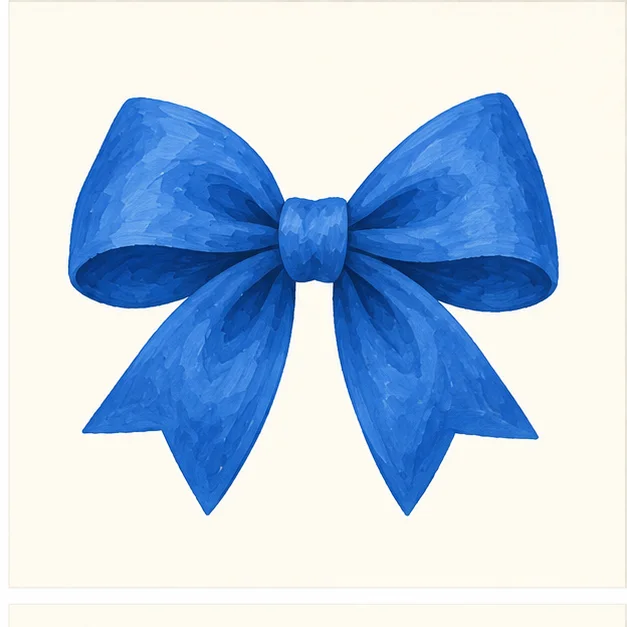
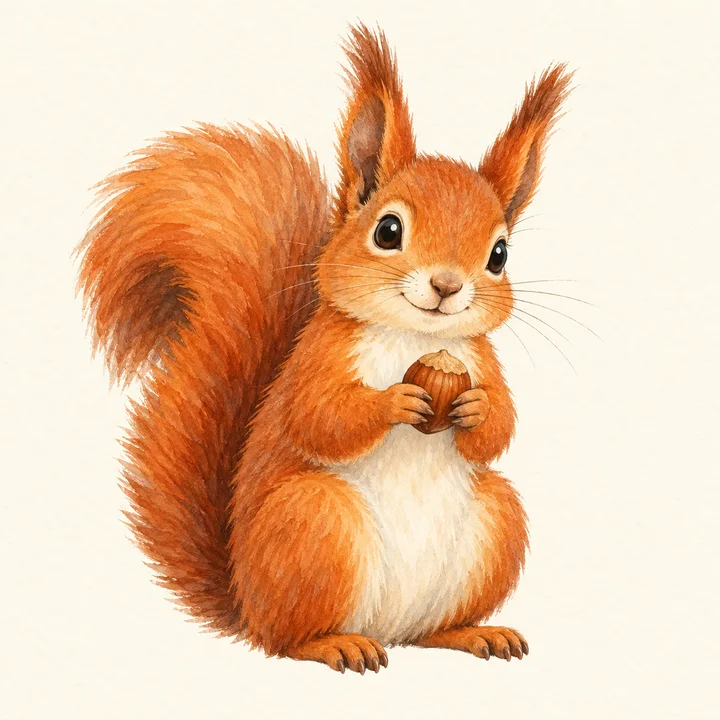
Replace duplicate alphabet examples

diff --git a/src/content/examples.ts b/src/content/examples.ts
@@ -1,9 +1,9 @@
 /** Three child-friendly examples per letter. Accent marks are kept for the adult review view. */
 export const examples: Record<string, string[]> = {
-  А: ['а́втобус', 'а́ист', 'а́рбуз'], Б: ['ба́нт', 'бараба́н', 'бант'], В: ['ва́та', 'во́лк', 'вода́'], Г: ['гу́сь', 'го́ры', 'гриб'], Д: ['до́м', 'ду́дка', 'дверь'],
+  А: ['а́втобус', 'а́ист', 'а́рбуз'], Б: ['ба́нт', 'бараба́н', 'бе́лка'], В: ['ва́та', 'во́лк', 'вода́'], Г: ['гу́сь', 'го́ры', 'гриб'], Д: ['до́м', 'ду́дка', 'дверь'],
   Е: ['ель', 'е́хать', 'еда́'], Ё: ['ёлка', 'ёж', 'мёд'], Ж: ['жу́к', 'жа́р', 'жира́ф'], З: ['зо́нт', 'зуб', 'за́яц'], И: ['и́ва', 'игра́', 'и́рис'],
   Й: ['йо́гурт', 'мо́й', 'о́й'], К: ['ко́т', 'ки́т', 'ку́бик'], Л: ['лу́к', 'ла́мпа', 'ли́са'], М: ['ма́к', 'ма́ма', 'мя́ч'], Н: ['но́с', 'но́та', 'но́ж'],
   О: ['о́блако', 'о́сы', 'о́кунь'], П: ['па́па', 'па́нда', 'пиро́г'], Р: ['ра́к', 'ро́т', 'ры́ба'], С: ['со́к', 'су́мка', 'сом'], Т: ['то́рт', 'ту́ча', 'та́пки'],
   У: ['у́тка', 'у́хо', 'у́лица'], Ф: ['фа́ртук', 'флаг', 'фонта́н'], Х: ['хомя́к', 'хле́б', 'хо́р'], Ц: ['ца́пля', 'цвето́к', 'цы́плёнок'], Ч: ['ча́шка', 'черепа́ха', 'ча́й'],
-  Ш: ['ша́р', 'ша́пка', 'шка́ф'], Щ: ['щу́ка', 'щё́тка', 'щётка'], Ъ: ['съе́л', 'подъе́зд', 'объе́м'], Ы: ['сыр', 'мы́шь', 'ры́ба'], Ь: ['ко́нь', 'со́ль', 'дверь'], Э: ['э́хо', 'э́то', 'э́таж'], Ю: ['ю́ла', 'ю́бка', 'лю́к'], Я: ['я́блоко', 'я́ма', 'мя́ч'],
+  Ш: ['ша́р', 'ша́пка', 'шка́ф'], Щ: ['щу́ка', 'щё́тка', 'щено́к'], Ъ: ['съе́л', 'подъе́зд', 'объе́м'], Ы: ['сыр', 'мы́шь', 'ры́ба'], Ь: ['ко́нь', 'со́ль', 'дверь'], Э: ['э́хо', 'э́то', 'э́таж'], Ю: ['ю́ла', 'ю́бка', 'лю́к'], Я: ['я́блоко', 'я́ма', 'мя́ч'],
 }

diff --git a/tests/unit/content.test.ts b/tests/unit/content.test.ts
@@ -17,6 +17,18 @@ describe('alphabet content contract', () => {
     for (const letter of letters) expect(examples[letter.uppercase]).toHaveLength(3)
   })
 
+  it('does not repeat an example word within a letter card', () => {
+    for (const letter of letters) {
+      const plainWords = examples[letter.uppercase].map(word => word.normalize('NFD').replace(/[\u0300\u0301]/g, '').normalize('NFC').toLowerCase())
+      expect(new Set(plainWords).size, letter.uppercase).toBe(plainWords.length)
+    }
+  })
+
+  it('uses distinct replacement words for the repaired cards', () => {
+    expect(examples['Б']).toEqual(['ба́нт', 'бараба́н', 'бе́лка'])
+    expect(examples['Щ']).toEqual(['щу́ка', 'щё́тка', 'щено́к'])
+  })
+
   it('has three valid game rounds for every letter', () => {
     for (const letter of letters) {
       const words = gameWordsForLetter(letter.uppercase, examples[letter.uppercase])
